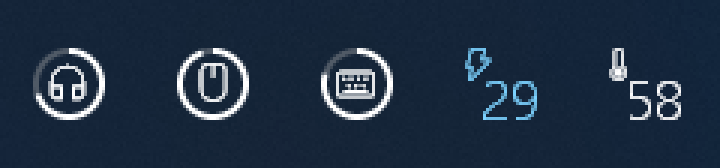
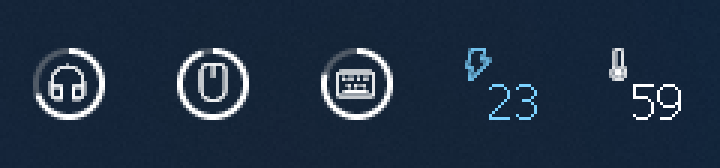
Tahoma 12 px digits like Core Temp; refresh screenshots
Digits are one pixel smaller and drawn in Tahoma, the font Core Temp uses for its tray numbers;
they no longer touch the symbol above them.

Changed region(s): [[0.6722, 0.4762, 0.7639, 0.7143], [0.8556, 0.4762, 0.9472, 0.7143]]

diff --git a/src/render/icon_painter.rs b/src/render/icon_painter.rs
@@ -36,12 +36,12 @@ pub fn rasterize(spec: &IconSpec, size: i32) -> Result<Vec<u32>> {
             text,
             color,
         } => {
-            // Tuned at 24 px: an 11 px symbol above 13 px digits, so the two never share a row
+            // Tuned at 24 px: an 11 px symbol above 12 px digits, so the two never share a row
             // and wide numbers do not run into the symbol.
             let symbol_height = size * 11 / 24;
             let glyph = fit_symbol(symbol.glyph(), symbol_height, symbol_height)?;
             canvas.draw_mask(&glyph, 0, 0, *color);
-            let digit_height = size - symbol_height;
+            let digit_height = size / 2;
             let digits = fit_text(text, Typeface::NUMBERS, size, digit_height)?;
             // Centred within the digit band so the "--" placeholder sits where digits would.
             canvas.draw_mask(

diff --git a/src/render/typeface.rs b/src/render/typeface.rs
@@ -9,11 +9,10 @@ pub struct Typeface {
 }
 
 impl Typeface {
-    /// Segoe UI Light: one-pixel strokes at tray sizes, thin like Core Temp's digits (Bahnschrift
-    /// Light, its thinnest weight, still looked heavy). GDI picks the weight of these fonts by the
-    /// named instance in the family; three-digit values are condensed to fit.
+    /// Tahoma, the font Core Temp uses for its tray digits: hinted, crisp one-pixel strokes at
+    /// tray sizes. Three-digit values are condensed to fit.
     pub const NUMBERS: Self = Self {
-        family: w!("Segoe UI Light"),
+        family: w!("Tahoma"),
         weight: FW_NORMAL.0,
     };
     /// Pictograms shipped with Windows 11; the set the shell uses for its own icons.

diff --git a/CLAUDE.md b/CLAUDE.md
@@ -35,9 +35,10 @@ running `tray-info.exe` first. Diagnostics go to `OutputDebugString` (view with 
   `Celsius`, `Watts`, `TemperatureReading`, …).
 - `src/render/` — icon look: `palette.rs` maps readings to an `IconSpec` — `Ring` (Segoe Fluent
   Icons device symbol inside a level ring, for batteries) or `Reading` (small symbol top-left,
-  large Segoe UI Light digits bottom-right, for CPU readings); `icon_painter.rs` rasterises
-  a spec into an `HICON` on a `Canvas` (anti-aliased ring, GDI text masks → alpha). GDI picks
-  font weight by the named instance in the family name ("Segoe UI Light"), not by `lfWeight`.
+  12 px Tahoma digits bottom-right, like Core Temp's, for CPU readings); `icon_painter.rs`
+  rasterises a spec into an `HICON` on a `Canvas` (anti-aliased ring, GDI text masks → alpha).
+  For variable fonts (Segoe UI, Bahnschrift) GDI picks the weight by the named instance in the
+  family name ("Segoe UI Light"), not by `lfWeight`.
 - `src/tray/` — `Shell_NotifyIcon` wrappers, stable icon ids, popup menu (actions only; readings
   live in the tooltips).
 - `src/win/` — thin safe wrappers: configuration manager (`DevNode`), PDH counters, WMI method
